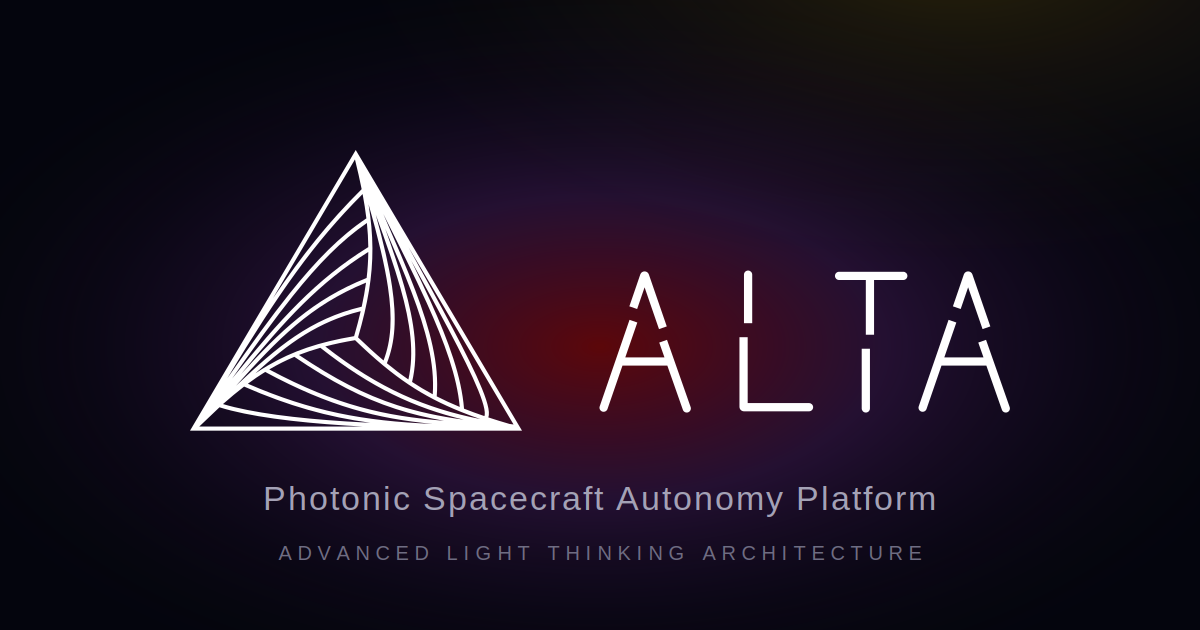
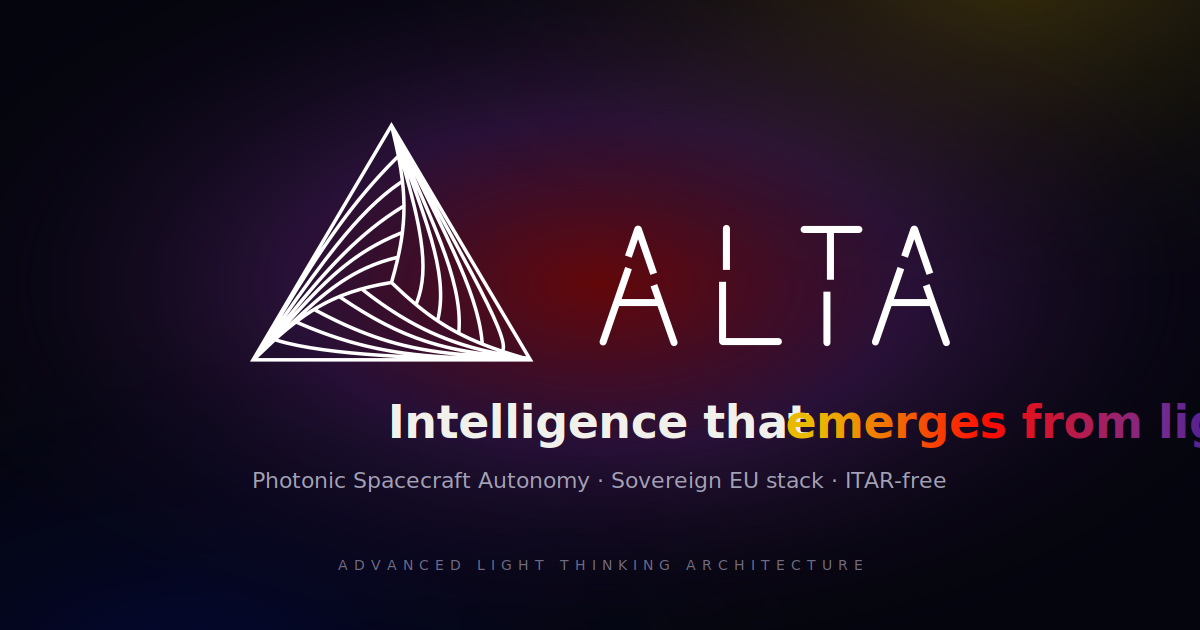
Add Why-Now framing, fix anchor scroll offset, regenerate OG card
- 'Why now' triple-statement strip between hero and partner band:
  constellations scaling, electronics walls, sovereign EU now viable.
  Sets stakes before specs.  Renders as 3-column on desktop, stacks on
  mobile.  Subtle red/purple atmospheric glow, light-theme variant uses
  the purple accent like the rest of the light palette.
- scroll-margin-top: 90px on every section[id] so in-page anchor jumps
  (Technology/Advantage/Roadmap/Team/Contact) land the section heading
  below the sticky nav, not behind it.
- Regenerated 1200x630 OG card: bigger logo, real headline ('Intelligence
  that emerges from light' with the brand gradient on the punch words),
  supporting strapline citing the sovereign + ITAR-free positioning,
  bottom rule with the brand expansion.

diff --git a/styles.css b/styles.css
@@ -78,6 +78,11 @@ ul { padding: 0; margin: 0; list-style: none; }
 
 main, .nav, .footer { position: relative; z-index: 1; }
 
+/* Anchor scroll offset so nav doesn't overlap section headers when
+   jumping via in-page links */
+section[id], main[id] { scroll-margin-top: 90px; }
+main[id="top"] { scroll-margin-top: 0; }
+
 /* ---------- NAV ---------- */
 .nav {
   position: sticky;
@@ -385,6 +390,51 @@ p { margin: 0; }
 @keyframes floaty {
   0%, 100% { transform: translateY(0); }
   50%      { transform: translateY(-10px); }
+}
+
+/* ---------- WHY NOW ---------- */
+.why-now {
+  border-top: 1px solid var(--line);
+  border-bottom: 1px solid var(--line);
+  padding: 40px 32px;
+  background:
+    radial-gradient(700px 200px at 50% 50%, rgba(253, 11, 4, .06), transparent 70%),
+    rgba(255, 255, 255, .015);
+}
+.why-now-inner {
+  max-width: var(--max);
+  margin: 0 auto;
+}
+.why-now .eyebrow { margin-bottom: 22px; }
+.why-now-list {
+  display: grid;
+  grid-template-columns: repeat(3, 1fr);
+  gap: 28px;
+}
+.why-now-list li {
+  color: var(--muted);
+  font-size: 14.5px;
+  line-height: 1.5;
+  padding-left: 16px;
+  border-left: 2px solid var(--line-strong);
+}
+.why-now-list strong {
+  display: block;
+  color: var(--text);
+  font-weight: 600;
+  margin-bottom: 4px;
+  font-family: 'Space Grotesk', sans-serif;
+  font-size: 16px;
+  letter-spacing: -0.005em;
+}
+@media (max-width: 800px) {
+  .why-now-list { grid-template-columns: 1fr; gap: 18px; }
+}
+
+[data-theme="light"] .why-now {
+  background:
+    radial-gradient(700px 200px at 50% 50%, rgba(117, 42, 144, .06), transparent 70%),
+    rgba(12, 10, 24, .015);
 }
 
 /* ---------- BAND ---------- */

diff --git a/index.html b/index.html
@@ -106,6 +106,26 @@
       </div>
     </section>
 
+    <section id="why-now" class="why-now">
+      <div class="why-now-inner">
+        <p class="eyebrow"><span class="dot"></span>Why now</p>
+        <ul class="why-now-list" role="list">
+          <li>
+            <strong>Constellations are scaling 10× this decade.</strong>
+            Onboard autonomy is the bottleneck — ground-in-the-loop doesn't scale.
+          </li>
+          <li>
+            <strong>Electronics have hit thermal &amp; power walls.</strong>
+            Photonic computing scales sub-linearly with zero EMI.
+          </li>
+          <li>
+            <strong>A sovereign EU photonic stack is viable now.</strong>
+            ITAR-free, exportable to U.S. defence primes.
+          </li>
+        </ul>
+      </div>
+    </section>
+
     <section class="band">
       <p class="band-label">European-sourceable across fiber, PICs, lasers, qualification &amp; silicon — ITAR-free</p>
       <ul class="band-list" role="list">
